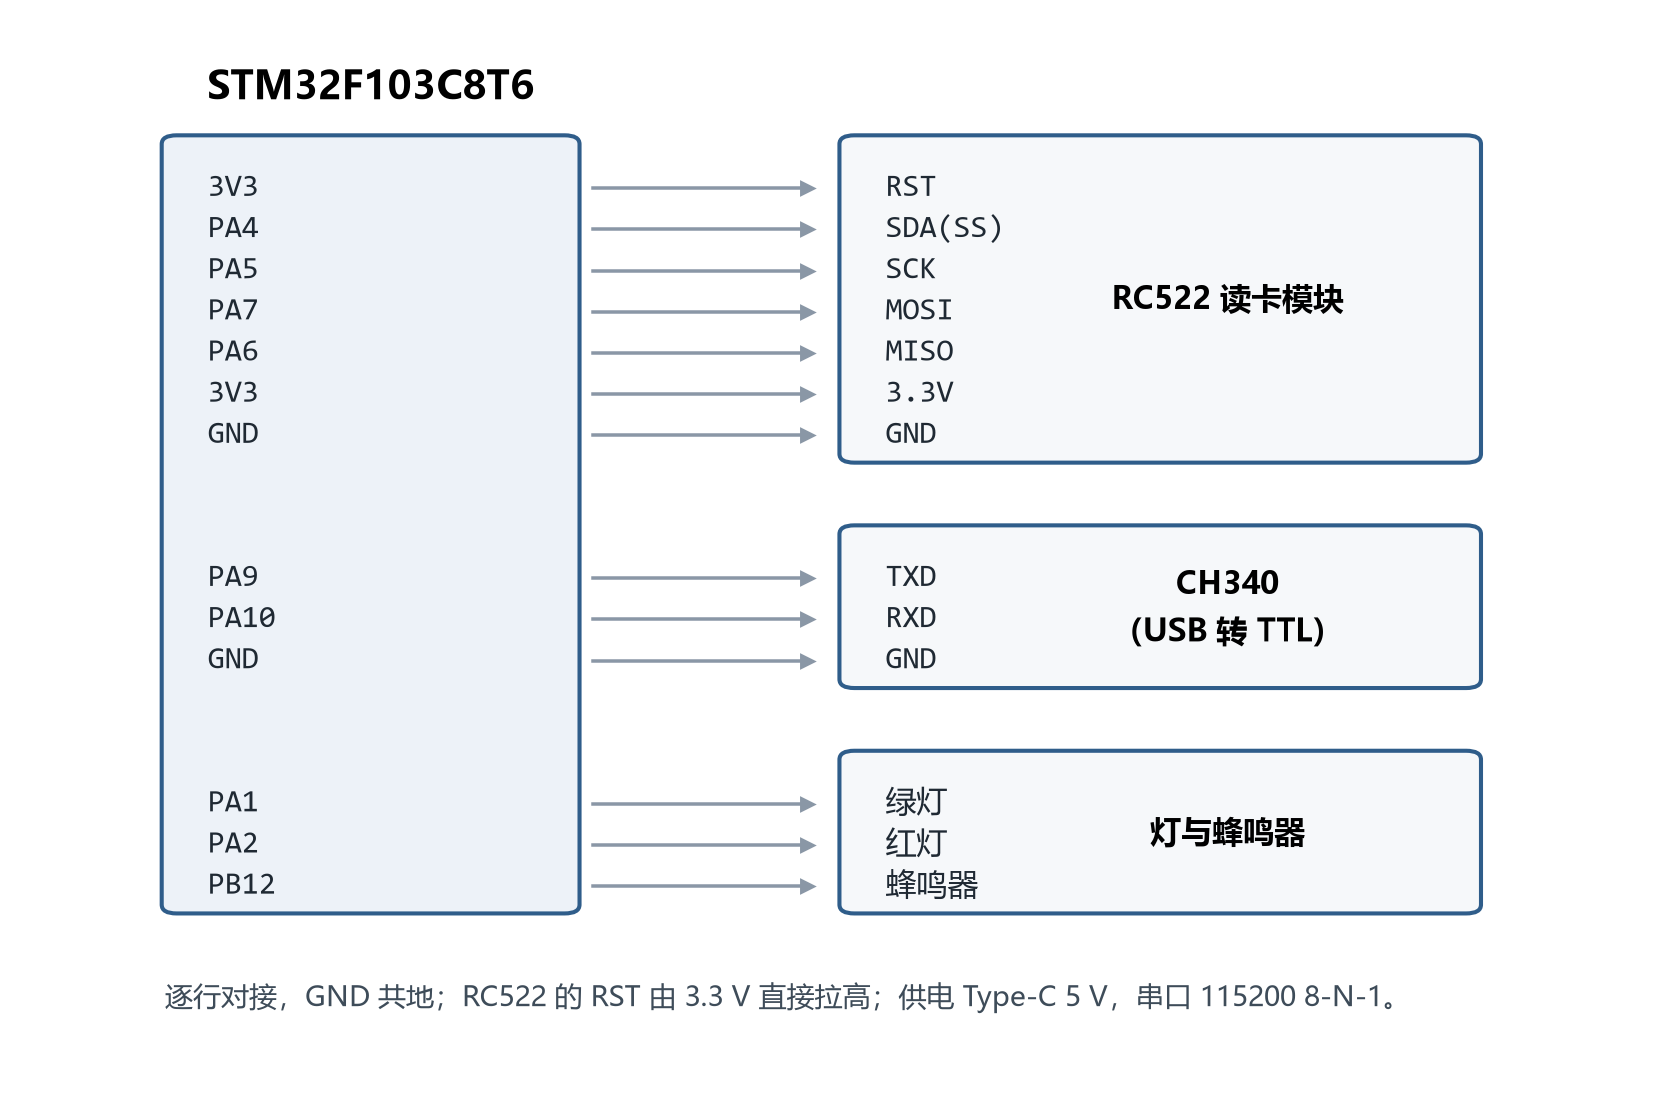
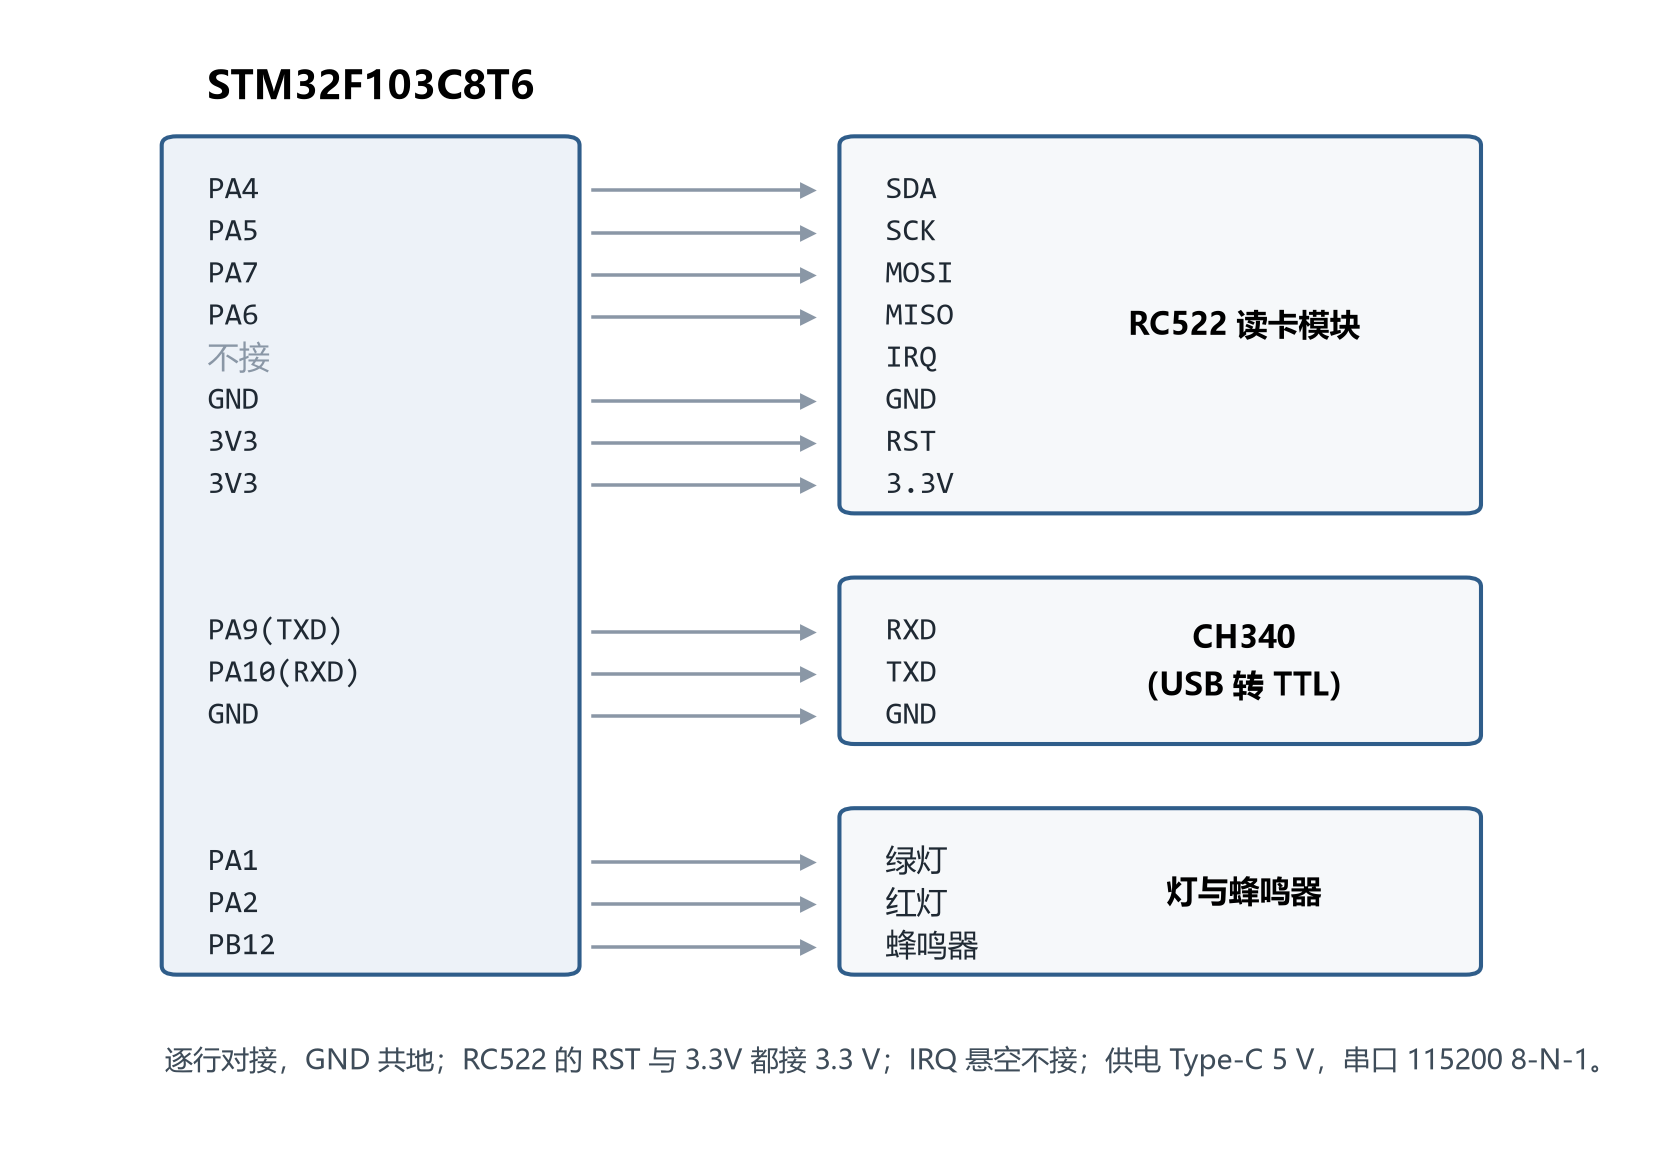
docs: 接线图改为按模块排针顺序，补 IRQ 悬空与 CH340 交叉接法

Changed region(s): [[0.0924, 0.062, 0.8937, 0.8686], [0.0924, 0.8996, 0.9553, 0.9307], [0.6779, 0.2482, 0.832, 0.3102]]

diff --git a/stm32_print/README.md b/stm32_print/README.md
@@ -81,7 +81,7 @@ cd d:\Learing\ZJHX--CUMTB\stm32_print
 | 供电 | STM32-Type-C |
 | 烧录 | ST-Link（SWD） |
 
-**接线**：见 `firmware/接线图.png`，逐行对接，GND 全部共地。RC522 的 RST 由 3.3 V 直接拉高，不占 GPIO，因此固件里 `RST_PIN` 传的是 `MFRC522::UNUSED_PIN`。
+**接线**：见 `firmware/接线图.png`，按模块排针自上而下逐行对接，GND 全部共地。RC522 的 `IRQ` 悬空不接；`RST` 与 `3.3V` 都接 3.3 V，因此 RST 不占 GPIO，固件里 `RST_PIN` 传的是 `MFRC522::UNUSED_PIN`。CH340 的 `RXD` 接 `PA9`（USART1_TX）、`TXD` 接 `PA10`（USART1_RX）。
 
 **软件栈**
 
